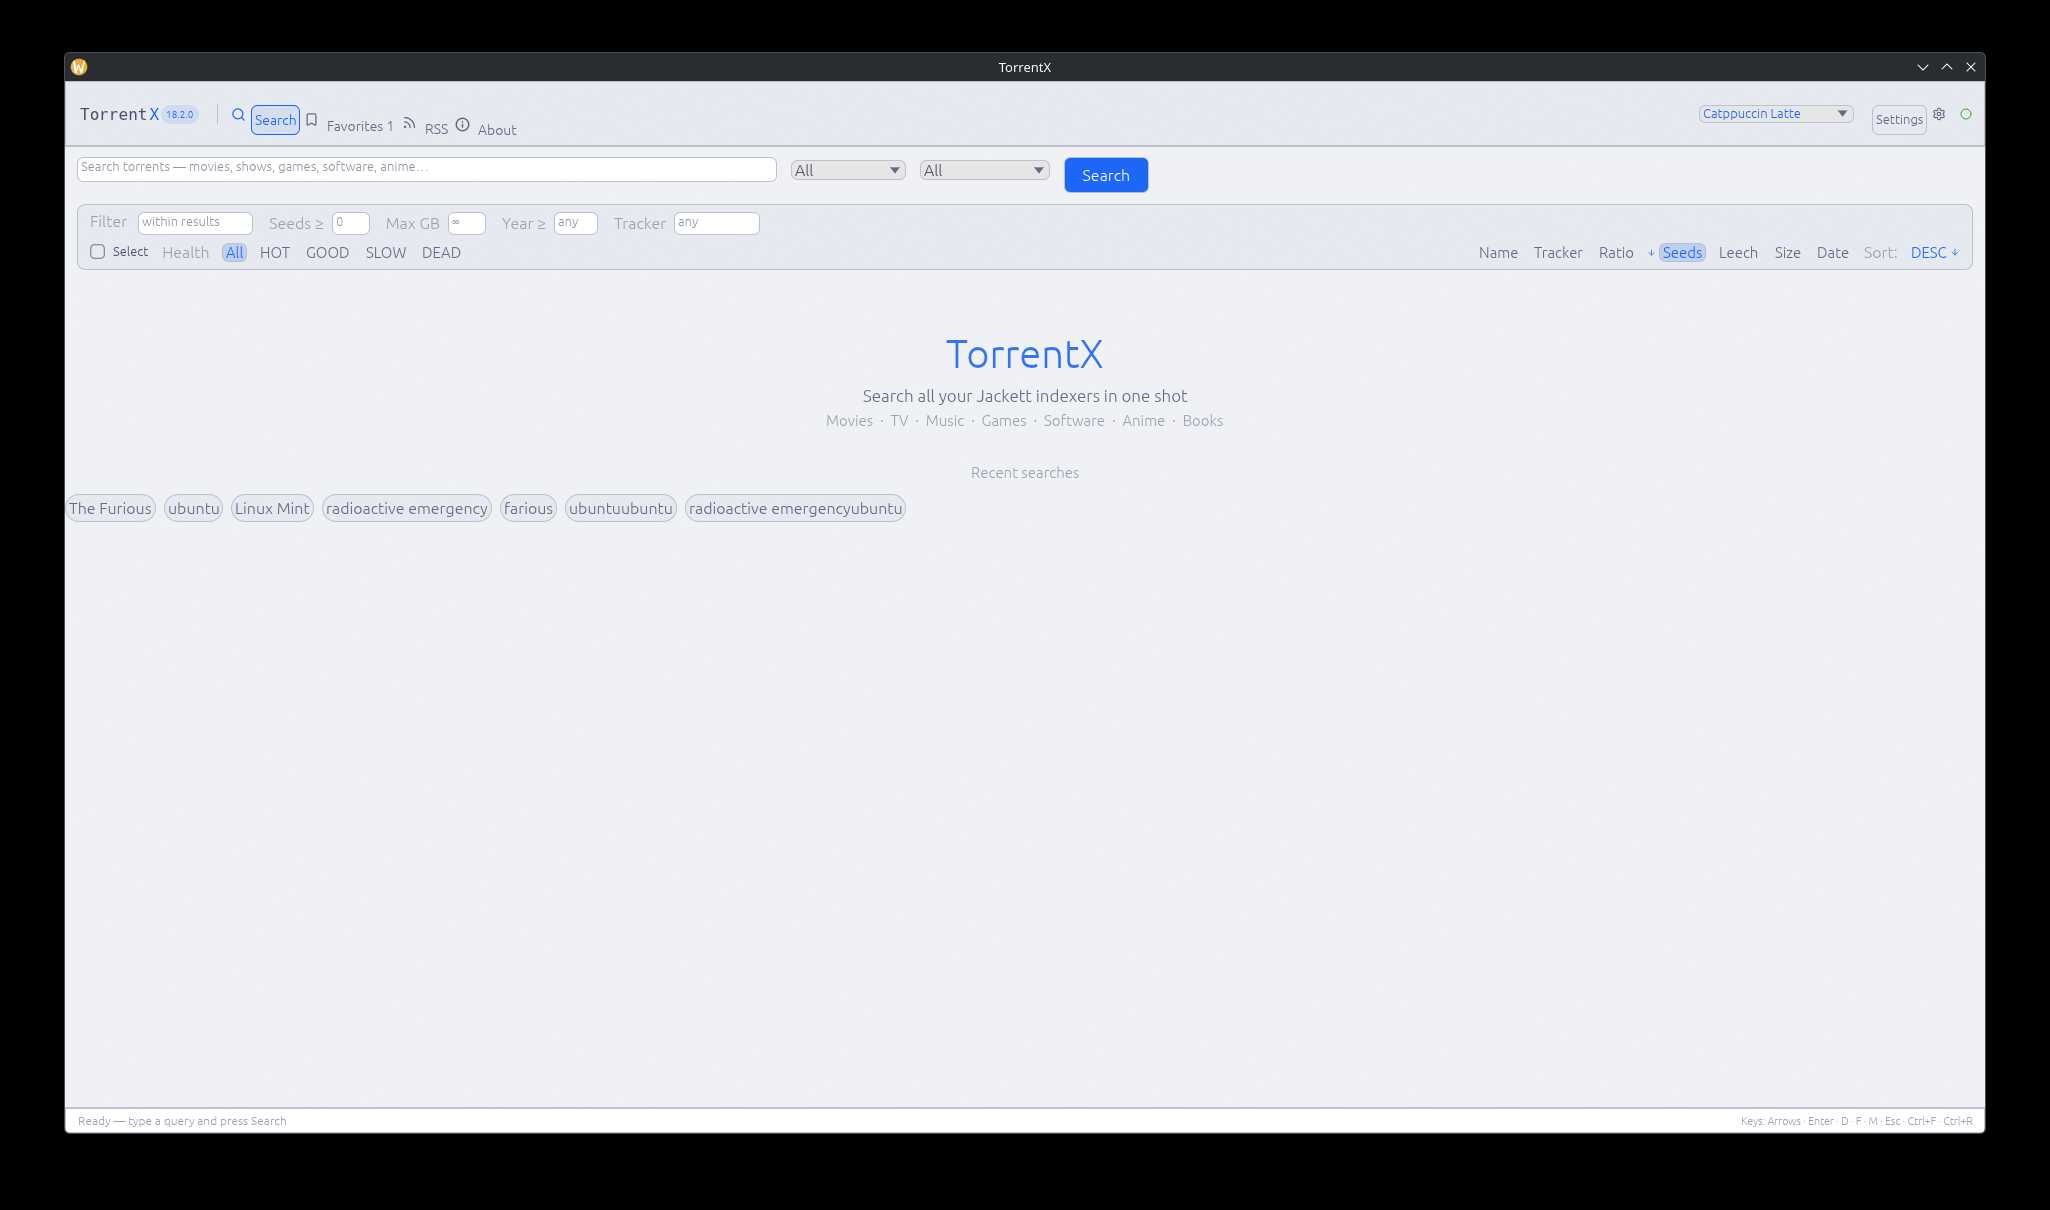
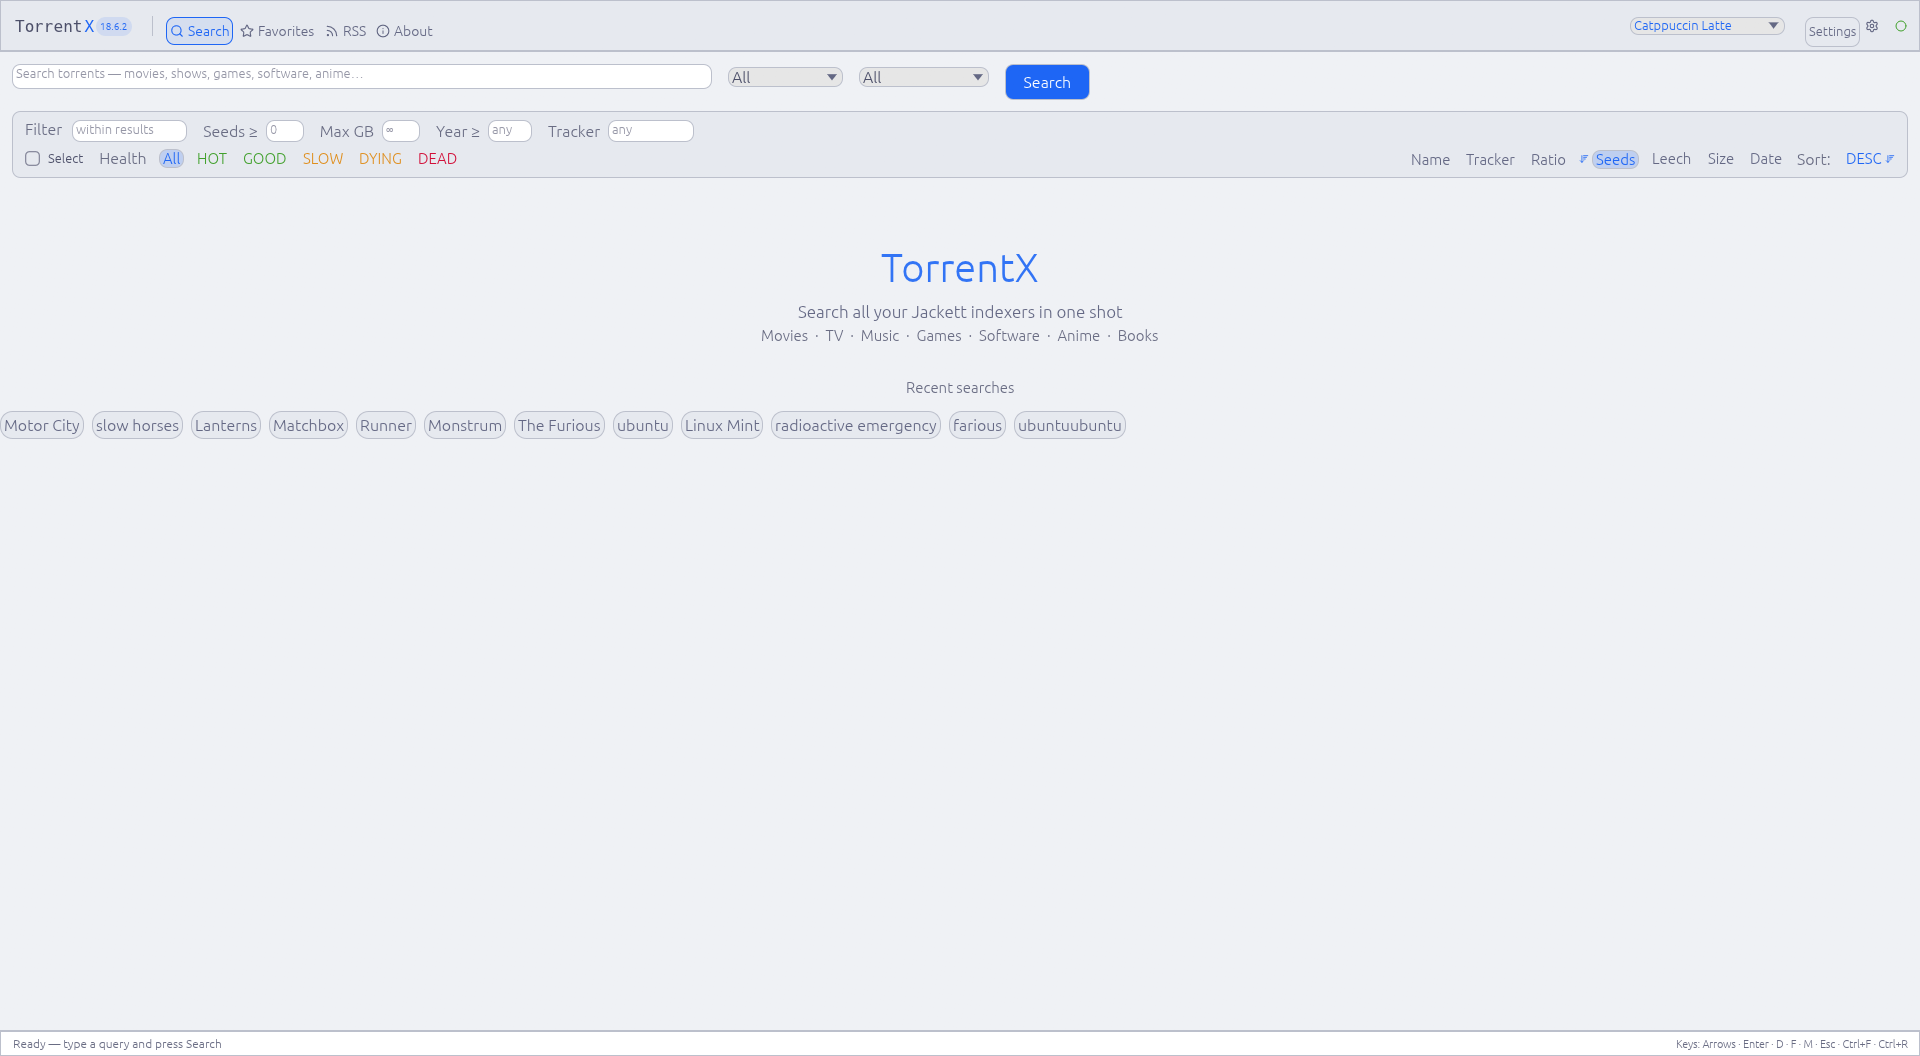
perf(ui): row highlight follows the pointer instead of fading in
Hover used one global `row_hover_anim` scalar that reset to 0 whenever the
hovered row changed, so every row you crossed re-ran a 120 ms fade — the
highlight trailed the cursor — and it was only ever cleared by a cell hit-test,
so it could stick after the pointer left the table.

Hover is now derived from the pointer against the row band at paint time (same
frame, no state), and `self.ui.hovered` is cleared once per frame before the
rows are drawn. The fade, the shared scalar and the now-unused smoothstep
easing are deleted; MOTION_MS stays for the search/detail transitions (200 ms).

Measured on XWayland: pointer moved onto row 3, capture 50 ms later shows the
hover tint on that row only (30,34,53) -> (34,37,56); moving off the table
clears it within 100 ms. Applies to the whole row width, including cells whose
old hit-test never set hover.

Changed region(s): [[0.0, 0.0, 1.0, 1.0], [0.5, 0.125, 0.5625, 0.1875]]

diff --git a/src/ui/results.rs b/src/ui/results.rs
@@ -31,7 +31,6 @@ impl App {
         let det_open = self.ui.detail_open;
         // Use visual tokens for animation easing
         let tokens = self.tokens;
-        let hover_progress = self.ui.row_hover_anim;
         // Table content fade (page turns, filter/sort changes) — ease-out
         let table_fade = (tokens.easing)(self.ui.table_anim);
 
@@ -166,15 +165,13 @@ impl App {
             });
         })
         .body(|mut body| {
+            self.ui.hovered = None;
             for (i, r) in page_s.iter().enumerate() {
                 let gi = base + i; // global index into the filtered results
                 let is_sel = sel == Some(i);
-                let is_hov = self.ui.hovered == Some(i);
                 let seed = r.seeders.unwrap_or(0);
                 let leech = r.peers.unwrap_or(0);
 
-                // Animated hover background - smoothly transition between states
-                let hover_t = if is_hov { hover_progress } else { 0.0 };
                 let base_bg = if is_sel {
                     pal.row_sel
                 } else if i % 2 == 0 {
@@ -182,28 +179,11 @@ impl App {
                 } else {
                     pal.row_even
                 };
-                // Lerp between base_bg and hover color (symmetric ease for enter+exit).
-                // Blend in STRAIGHT (non-premultiplied) alpha: the hover color is a
-                // low-alpha accent tint, so we composite it over the base row color
-                // rather than lerping raw RGB (which produced a dark muddy highlight
-                // on light themes).
-                let bg = if hover_t > 0.0 {
-                    let t = (tokens.easing_hover)(hover_t);
-                    // Effective alpha of the hover tint at this point in the fade.
-                    let hov_a = pal.row_hov.a() as f32 * t;
-                    let hov_r = pal.row_hov.r() as f32;
-                    let hov_g = pal.row_hov.g() as f32;
-                    let hov_b = pal.row_hov.b() as f32;
-                    // Straight-alpha "over" composite: dst = src*a + base*(1-a)
-                    Color32::from_rgba_unmultiplied(
-                        (hov_r * hov_a / 255.0 + base_bg.r() as f32 * (1.0 - hov_a / 255.0)) as u8,
-                        (hov_g * hov_a / 255.0 + base_bg.g() as f32 * (1.0 - hov_a / 255.0)) as u8,
-                        (hov_b * hov_a / 255.0 + base_bg.b() as f32 * (1.0 - hov_a / 255.0)) as u8,
-                        255,
-                    )
-                } else {
-                    base_bg
-                };
+                // Hover is derived from the pointer at paint time (not from the
+                // previous frame's cell hit-tests), so the highlight is on the row
+                // under the cursor in the same frame and cannot stick after the
+                // pointer leaves.
+                let mut bg = base_bg;
 
                 body.row(rh, |mut row| {
                     let last = cols.len(); // Actions is the trailing cell
@@ -213,6 +193,28 @@ impl App {
                             // hover/selection fill lines up with the padded text
                             // instead of running to the window edge.
                             let mut fill = ui.max_rect();
+                            if ci == 0 {
+                                let band = fill;
+                                let hovered = ui.ctx().pointer_latest_pos().is_some_and(|p| {
+                                    p.y >= band.top() && p.y < band.top() + rh
+                                });
+                                if hovered {
+                                    self.ui.hovered = Some(i);
+                                    let a = pal.row_hov.a() as f32 / 255.0;
+                                    bg = Color32::from_rgba_unmultiplied(
+                                        (pal.row_hov.r() as f32 * a
+                                            + base_bg.r() as f32 * (1.0 - a))
+                                            as u8,
+                                        (pal.row_hov.g() as f32 * a
+                                            + base_bg.g() as f32 * (1.0 - a))
+                                            as u8,
+                                        (pal.row_hov.b() as f32 * a
+                                            + base_bg.b() as f32 * (1.0 - a))
+                                            as u8,
+                                        255,
+                                    );
+                                }
+                            }
                             if ci == 0 {
                                 fill.min.x += CELL_PAD_X;
                             }
@@ -265,7 +267,6 @@ impl App {
                                         }
                                     }
                                     if cell_resp.hovered() {
-                                        self.ui.hovered = Some(i);
                                         ui.ctx().set_cursor_icon(egui::CursorIcon::PointingHand);
                                     }
                                     // Draw the content (non-interactive label)
@@ -326,7 +327,6 @@ impl App {
                                         actions.push((i, "select"));
                                     }
                                     if cell_resp.hovered() {
-                                        self.ui.hovered = Some(i);
                                         ui.ctx().set_cursor_icon(egui::CursorIcon::PointingHand);
                                     }
                                     draw_cell_content(ui, c, r, seed, leech, fsz, &pal);
@@ -394,11 +394,8 @@ impl App {
                                 actions.push((i, "info"));
                             }
                             let cell_id = egui::Id::new(("rowhov", gi));
-                            let hover_resp =
+                            let _hover_resp =
                                 ui.interact(ui.max_rect(), cell_id, egui::Sense::hover());
-                            if hover_resp.hovered() {
-                                self.ui.hovered = Some(i);
-                            }
                         });
                     });
                 });

diff --git a/src/ui/search.rs b/src/ui/search.rs
@@ -193,7 +193,7 @@ impl App {
                     .stroke(Stroke::new(1.0_f32, tint(self.pal.red, 70)))
                     .corner_radius(PANEL_RADIUS)
                     .inner_margin(margin(SP6, SP5))
-                    .outer_margin(egui::Margin::symmetric(PANEL_MARGIN_X, 0))
+                    .outer_margin(margin(PANEL_MARGIN_X as f32, 0.0))
                     .show(ui, |ui| {
                         for line in err.lines() {
                             lbl(ui, line, self.pal.red, fs);
@@ -429,7 +429,7 @@ impl App {
                 egui::Frame::NONE
                     .fill(self.pal.bg)
                     .stroke(Stroke::new(1.0_f32, self.pal.border))
-                    .inner_margin(egui::Margin::symmetric(PANEL_MARGIN_X, 5)),
+                    .inner_margin(margin(PANEL_MARGIN_X as f32, SP2)),
             )
             .show(ui, |ui| {
                 ui.horizontal_wrapped(|ui| {
@@ -527,7 +527,7 @@ impl App {
                 egui::Frame::NONE
                     .fill(self.pal.surface)
                     .stroke(Stroke::new(1.0_f32, self.pal.border))
-                    .inner_margin(egui::Margin::symmetric(PANEL_MARGIN_X, 8)),
+                    .inner_margin(margin(PANEL_MARGIN_X as f32, SP3)),
             )
             .show(ui, |ui| {
                 // Fade + slide in the panel content (from the right edge).
@@ -678,8 +678,8 @@ impl App {
             .fill(self.pal.surface)
             .corner_radius(PANEL_RADIUS)
             .stroke(Stroke::new(1.0_f32, self.pal.border))
-            .inner_margin(egui::Margin::symmetric(PANEL_MARGIN_X, 7))
-            .outer_margin(egui::Margin::symmetric(PANEL_MARGIN_X, 0))
+            .inner_margin(margin(PANEL_MARGIN_X as f32, SP3))
+            .outer_margin(margin(PANEL_MARGIN_X as f32, 0.0))
             .show(ui, |ui| {
                 // Row 1
                 ui.horizontal_wrapped(|ui| {

diff --git a/src/main.rs b/src/main.rs
@@ -669,24 +669,13 @@ impl eframe::App for App {
             }
         }
 
-        // Row hover animation — one 120 ms transition (MOTION_MS), stepped by
-        // elapsed time so it takes the same wall-clock time at any frame rate.
-        let step = dt.min(0.05) * 1000.0 / MOTION_MS as f32;
-        if self.ui.hovered != self.ui.prev_hovered {
-            self.ui.prev_hovered = self.ui.hovered;
-            self.ui.row_hover_anim = 0.0;
-        } else if self.ui.hovered.is_some() {
-            self.ui.row_hover_anim = (self.ui.row_hover_anim + step).min(1.0);
-        } else {
-            self.ui.row_hover_anim = (self.ui.row_hover_anim - step).max(0.0);
-        }
-
         // Search state transition animation
         if self.ui.prev_search_state != state {
             self.ui.prev_search_state = state.clone();
             self.ui.search_state_anim = 0.0;
         } else {
-            self.ui.search_state_anim = (self.ui.search_state_anim + dt / 0.2).min(1.0);
+            self.ui.search_state_anim =
+                (self.ui.search_state_anim + dt * 1000.0 / MOTION_MS as f32).min(1.0);
         }
 
         // Table content animation — reset when the page changes (page turns,
@@ -707,7 +696,7 @@ impl eframe::App for App {
             0.0
         };
         let speed = if self.ui.detail_open {
-            1.0 / 0.2
+            1000.0 / MOTION_MS as f32
         } else {
             1.0 / 0.15
         };

diff --git a/src/app.rs b/src/app.rs
@@ -205,10 +205,6 @@ pub(crate) struct UiState {
     /// When it changes, row-indexed selection state is dropped (see
     /// `view_signature` / `clear_row_selection`).
     pub(crate) view_sig: Option<u64>,
-    /// Animation progress for row hover (0.0 = not hovering, 1.0 = fully hovered)
-    pub(crate) row_hover_anim: f32,
-    /// Previously hovered row index for animation
-    pub(crate) prev_hovered: Option<usize>,
     /// Animation progress for search state transitions
     pub(crate) search_state_anim: f32,
     /// Previous search state for transition animation
@@ -268,8 +264,6 @@ impl Default for UiState {
             t_start: None,
             t_done: None,
             notified: false,
-            row_hover_anim: 0.0,
-            prev_hovered: None,
             search_state_anim: 1.0, // Start fully visible
             prev_search_state: SearchState::Idle,
             table_anim: 1.0, // Start fully visible

diff --git a/src/ui/rss.rs b/src/ui/rss.rs
@@ -73,7 +73,7 @@ impl App {
                 egui::Frame::NONE
                     .fill(self.pal.surface)
                     .stroke(Stroke::new(1.0_f32, self.pal.border))
-                    .inner_margin(egui::Margin::symmetric(PANEL_MARGIN_X, 8)),
+                    .inner_margin(margin(PANEL_MARGIN_X as f32, SP3)),
             )
             .show(ui, |ui| {
                 let eased = (self.tokens.easing)(anim);
@@ -740,7 +740,7 @@ impl App {
         let fs = self.cfg.font_size;
         ui.add_space(SP4);
         egui::Frame::NONE
-            .inner_margin(egui::Margin::symmetric(PANEL_MARGIN_X, 0))
+            .inner_margin(margin(PANEL_MARGIN_X as f32, 0.0))
             .show(ui, |ui| {
                 ui.horizontal(|ui| {
                     lbl(ui, "Item details", pal.accent, fs + 1.0);

diff --git a/src/themes.rs b/src/themes.rs
@@ -8,8 +8,6 @@ use serde::{Deserialize, Serialize};
 pub(crate) struct VisualTokens {
     /// Easing for entrances (fade/slide in) — ease-out, fast start, settle.
     pub(crate) easing: fn(f32) -> f32,
-    /// Easing for bidirectional state (hover in/out) — symmetric smoothstep.
-    pub(crate) easing_hover: fn(f32) -> f32,
 }
 
 impl Default for VisualTokens {
@@ -18,8 +16,6 @@ impl Default for VisualTokens {
             // ease-out cubic: fast start, gentle settle (interface-design: entrances
             // must never ease-in — the first frame the user is watching feels slow)
             easing: |t| 1.0 - (1.0 - t).powi(3),
-            // symmetric smoothstep for hover (reads equally on enter + exit)
-            easing_hover: |t| t * t * (3.0 - 2.0 * t),
         }
     }
 }

diff --git a/src/ui/tokens.rs b/src/ui/tokens.rs
@@ -24,8 +24,9 @@ pub(crate) const ICON_LG: f32 = 16.0; // header, empty state
 
 /// Table cell inset — text must not touch the cell edge.
 pub(crate) const CELL_PAD_X: f32 = 10.0;
-/// Row hover/selection transition.
-pub(crate) const MOTION_MS: u64 = 120;
+/// State transitions (search finished, detail panel): one wall-clock
+/// duration so every animation feels the same at any frame rate.
+pub(crate) const MOTION_MS: u64 = 200;
 
 /// `Margin::symmetric` from the space scale (egui margins are i8).
 pub(crate) fn margin(x: f32, y: f32) -> eframe::egui::Margin {
